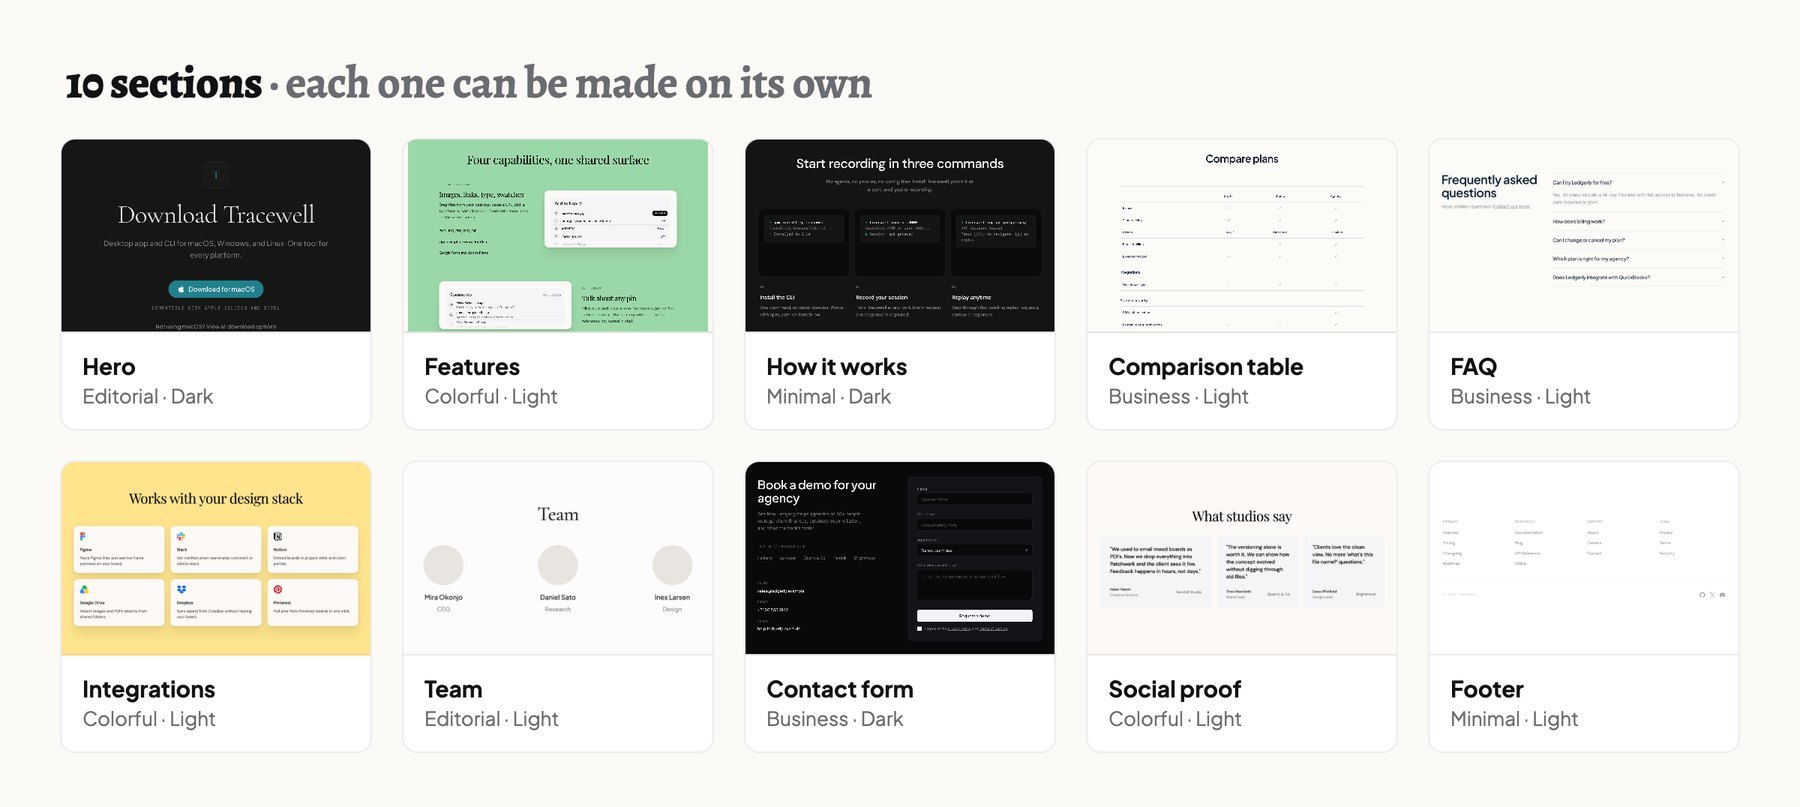
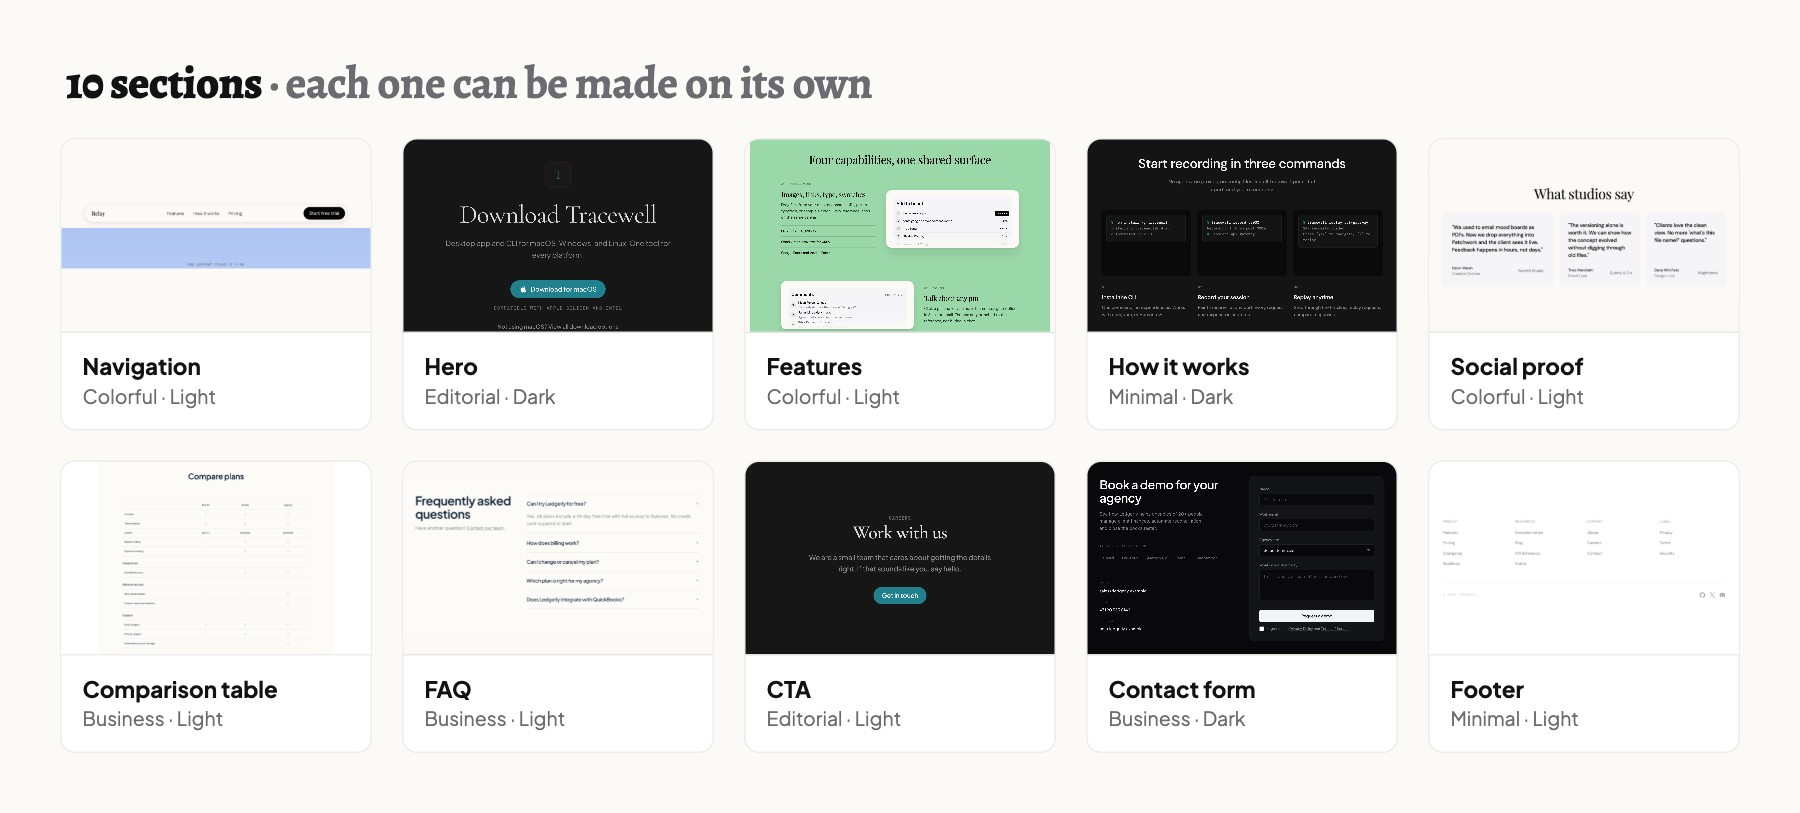
README: 8 page types collage (one per page type, every style in light and dark); sections collage shows the 10 section skills (CTA and Navigation instead of Integrations and Team)

diff --git a/README.md b/README.md
@@ -85,7 +85,7 @@ So one product can get two different pages: for developers who want to try it no
 
 ## What you can build
 
-[![9 configurations](docs/images/configs.jpg)](https://proofdesign.dev/#pages)
+[![8 page types](docs/images/configs.jpg)](https://proofdesign.dev/#pages)
 
 | Page type | Use it for | Archetypes |
 | --- | --- | --- |

diff --git a/README.zh-CN.md b/README.zh-CN.md
@@ -85,7 +85,7 @@ npx skills add senlindesign/proof
 
 ## 能做什么
 
-[![9 种页面配置](docs/images/configs.jpg)](https://proofdesign.dev/zh#pages)
+[![8 种页面](docs/images/configs.jpg)](https://proofdesign.dev/zh#pages)
 
 | 页面类型 | 用途 | Archetype |
 | --- | --- | --- |
